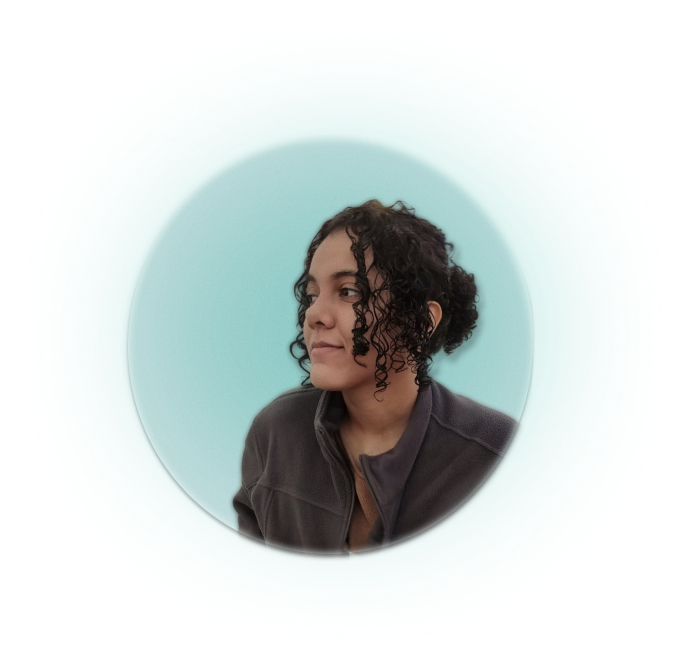
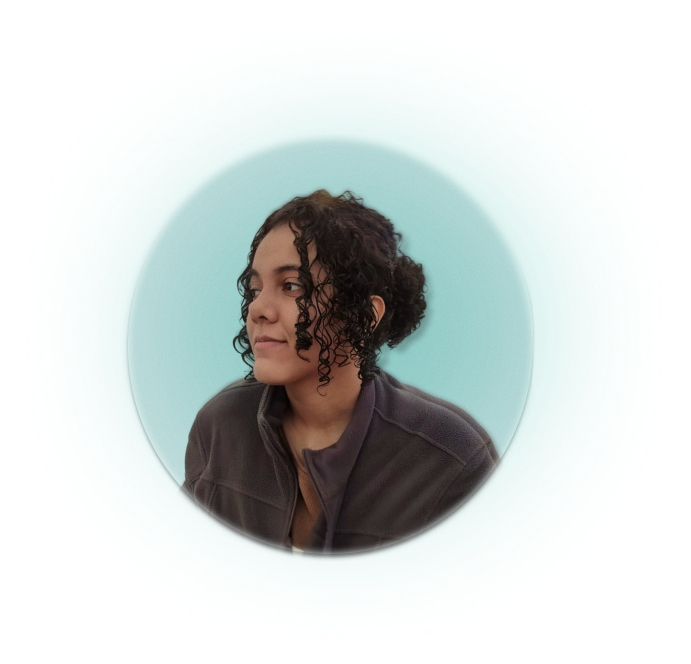
Ajustei layout do About, fonte

Changed region(s): [[0.2431, 0.2711, 0.7598, 0.8434], [0.5774, 0.6928, 0.6078, 0.753]]

diff --git a/css/components/about.css b/css/components/about.css
@@ -4,31 +4,35 @@
     flex-direction: column; /* Organiza os itens em coluna */
     align-items: center; /* Centraliza os itens horizontalmente */
     gap: 8rem;
-    padding: 4rem 0;
+    padding: 0rem 4rem 4.5rem;
    
 }
 
 /* Título "Sobre mim" centralizado */
 .about .secondary-title {
     color: var(--white);
-    text-align: center;
-    margin-bottom: 10rem;
+    text-align: left;
+    margin-bottom: 4rem;
+    font-weight: 600;
+    
 }
 
 .about .tertiary-title {
     color: var(--white);
     text-align: left;
-    margin-bottom: 2.5rem;
+    margin-bottom: 4rem;
+    font-size: 2.5rem;
 }
 
 /* Novo contêiner para as colunas, com Flexbox */
 .about__columns {
     display: flex;
     justify-content: center;
-    gap: 8rem;
+    align-items: center;
+    gap: 2rem;
     max-width: 120rem; /* Limite de largura para o contêiner */
     width: 100%;
-    padding: 0 8rem; /* Espaçamento lateral */
+    padding: 0 4rem; /* Espaçamento lateral */
     
 }
 
@@ -37,65 +41,56 @@
     flex: 1;
     max-width: 55rem;
     text-align: left;
-    margin-top: -5rem;
+    
 }
 
 /* Parágrafos (alinhados à esquerda) */
 .about__left p {
     justify-content:space-between;
-    text-align: left;
+    text-align: justify; 
+    justify-content:space-between;
     color: var(--white);
-    margin-bottom: 2rem;
+    margin-bottom: 1.5rem;
+    line-height: 2rem; /* Aumenta o espaçamento entre linhas */
+    font-family: var(--font-family2);
+    font-size: 1.4rem;
+    font-weight: 395;
+
 }
 
 /* Coluna da direita */
 .about__right {
     flex: 1;
-    min-height: 40rem;
-    margin-top: -8rem;
+    min-height: 4rem;
+    
     width: 100%; 
-    object-fit: cover;
+    
+    object-fit:cover;
     background-repeat: no-repeat;
     background-position: center;
+     overflow: hidden;
     
-
+    
+    aspect-ratio: 1 / 1;
+   
 }
 
 
 
 
 .about__right .about__image .emanuelle {
-    width: 100%;
-    height: 100%;
+    width: 47rem;
+    height: auto;
+  
     object-fit: cover; /* Garante que a imagem cubra o círculo sem distorcer */
-    border-radius: 0.5rem;
-    min-width: 25rem;
-    max-width: 100%;
-    margin-top: -11.2rem;
-}
-
-
-
-@media (max-width: 768px) {
-    .about {
-        flex-direction: column; /* Mude para column para empilhar em telas pequenas */
-        padding: 4rem 2rem;
-        gap: 4rem;
-    }
     
-    .about__columns {
-        flex-direction: column;
-        align-items: center;
-        gap: 3rem;
-    }
-
-    .about__right {
-        /* Ajustes para o modo de celular */
-        width: 80%;
-        padding-bottom: 80%; /* Ajuste a porcentagem para mobile */
-        height: 0;
-    }
+    min-width: 25rem;
+    
 }
+
+
+
+
 /* ---- Layout Responsivo para a Seção Sobre Mim ---- */
 
 @media (max-width: 1100px) {
@@ -103,20 +98,20 @@
     /* 1. Muda a direção das colunas de "lado a lado" para "uma em cima da outra" */
     flex-direction: column;
     align-items: center; /* Centraliza os itens horizontalmente */
-    gap: 4rem; /* Diminui o espaço entre a imagem e o texto */
+    gap: 3.5rem; /* Diminui o espaço entre a imagem e o texto */
   }
 
   .about__left {
     /* 2. Centraliza o texto e ajusta a largura */
     max-width: 70rem;
     text-align: center;
-    line-height: 1.9rem; 
+    line-height: 3rem; 
     order: 2
   }
 
   .about__left p:not(:last-of-type) {
         /* Diminui o espaço EMBAIXO de cada parágrafo */
-        margin-bottom: 1.5rem;
+        margin-bottom:1rem;
     }
 
   .about__right {
@@ -125,7 +120,8 @@
     width: 40rem;
     height: 40rem;
     min-height: auto; /* Reseta a altura mínima */
-    border-radius: 50%; /* Deixa o container redondo */
+    scroll-margin-bottom: 10rem;
+    
     order: 1;
   }
 }

diff --git a/index.html b/index.html
@@ -13,6 +13,10 @@
     <link 
         href="https://fonts.googleapis.com/css2?family=Oxanium:wght@200..800&display=swap"
         rel="stylesheet">
+        
+    <link rel="preconnect" href="https://fonts.googleapis.com">
+    <link rel="preconnect" href="https://fonts.gstatic.com" crossorigin>
+    <link href="https://fonts.googleapis.com/css2?family=Lato:ital,wght@0,100;0,300;0,400;0,700;0,900;1,100;1,300;1,400;1,700;1,900&family=Source+Code+Pro:ital,wght@0,200..900;1,200..900&display=swap" rel="stylesheet">    
 </head>
 <body>
     <nav class="navbar">
@@ -30,19 +34,23 @@
         <div id="particles-js"></div> 
         <div class="header-content"> 
             <h1 class="main-title">Emanuelle Lima</h1>
-            <h4 class="subtitle">Backend | Lógica | Segurança</h4>
+            <h4 class="subtitle">Backend | Segurança</h4>
         </div>
     </header>
 
     <section id="about" class="about max-width">
-        <h2 class="secondary-title">Sobre mim</h2>
+        
         
         <div class="about__columns">
             <div class="about__left">
-                <h3 class="tertiary-title">Opa! Tudo bom?</h3>
-                <p>Sou estudante de tecnologia e integrante do programa de formação Jovem Tech, onde estou direcionando minha carreira para a área de <span class="keyword">Back-End</span>. </p>
-                <p>Eu amo aprender, minha curiosidade me impulsiona a entender não apenas 'o quê' uma tecnologia faz, mas o 'como' e o 'porquê' ela funciona por baixo dos panos. Essa busca pela profundidade é o que me atrai no Back-End e me motiva a explorar a <span class="keyword">cibersegurança</span>, entendendo a raíz dos sistemas e consolidando todas as lacunas possivels.</p>
-                <p>Colaborativa, trabalho bem em equipe com a metodologia Scrum e acredito que a boa comunicação é a chave para que a equipe entregue o melhor resultado possível. Em equipe ou individualmente, o que me move é o desafio de dissecar o problema e construir a solução mais eficaz possível.</p>
+                <h2 class="secondary-title">Prazer, tudo bom?!</h2>
+                <p>Sou estudante de tecnologia e integrante do programa de formação Jovem Tech, onde estou direcionando minha carreira 
+                 para a área de <span class="keyword">Back-End</span>. </p>
+                <p>Eu amo aprender, com curiosidade procuro sempre entender 'como' e 'porquê' uma tecnologia funciona por baixo dos panos. A dinâmica de dominar a estrutura é 
+                 o que me atrai no Back-End e me motiva a explorar a <span class="keyword">cibersegurança</span>, ao passo que arquiteto sistemas e os torno íntegros, 
+                 confidentes e disponiveis </p>
+                <p>Colaborativa, trabalho bem em equipe e acredito que a boa comunicação é o alicerce do bom desempenho. Ademais, o desafio de dissecar um 
+                 problema e construir a solução mais eficaz é o que me move, fato que frequentemente me coloca na posição de organização da equipe.</p>
             </div>
             <div class="about__right">
                 <div class="about__image">

diff --git a/css/globals.css b/css/globals.css
@@ -30,7 +30,7 @@ h1 {
   font-size: 5rem;
   font-weight: 400;
   color: var(--white);
-  letter-spacing:  0.33rem;
+  letter-spacing:  0.9rem;
 }
 
 /*40, 2.5, reg;;; tamanho final de ~21px*/
@@ -61,12 +61,12 @@ p,
 .p {
   font-weight: 400;
   font-size: 1.25rem;
-  line-height: 2.5rem;
+  line-height: 2.46rem;
 }
 
 p:not(:last-of-type),
 .p:not(:last-of-type) {
-  margin-bottom: 2rem;
+  margin-bottom: 1rem;
 }
 
 .keyword {
@@ -134,7 +134,7 @@ p:not(:last-of-type),
   max-width: 120rem;
   padding: 0 4rem;
   margin: 0 auto;
-  margin-bottom: 20rem;
+  margin-bottom: 0rem;
 }
 
 .mb-0 {

diff --git a/css/components/skills.css b/css/components/skills.css
@@ -25,7 +25,7 @@
     display: grid;
     grid-template-columns: repeat(3, 1fr);
     width: 100%;
-    max-width: 80rem;
+    max-width: 110rem;
 }
 
 /* Animação Grid */

diff --git a/css/variables.css b/css/variables.css
@@ -10,5 +10,6 @@
   --text-color: #ffffff;
 
   --font-family: "Oxanium", sans-serif;
+  --font-family2: "Lato", sans-serif;
   --navbar-scale: 0.9;
 } 

diff --git a/css/components/projects.css b/css/components/projects.css
@@ -42,3 +42,5 @@
 		transform: translateY(0px);
 	}
 }
+
+
